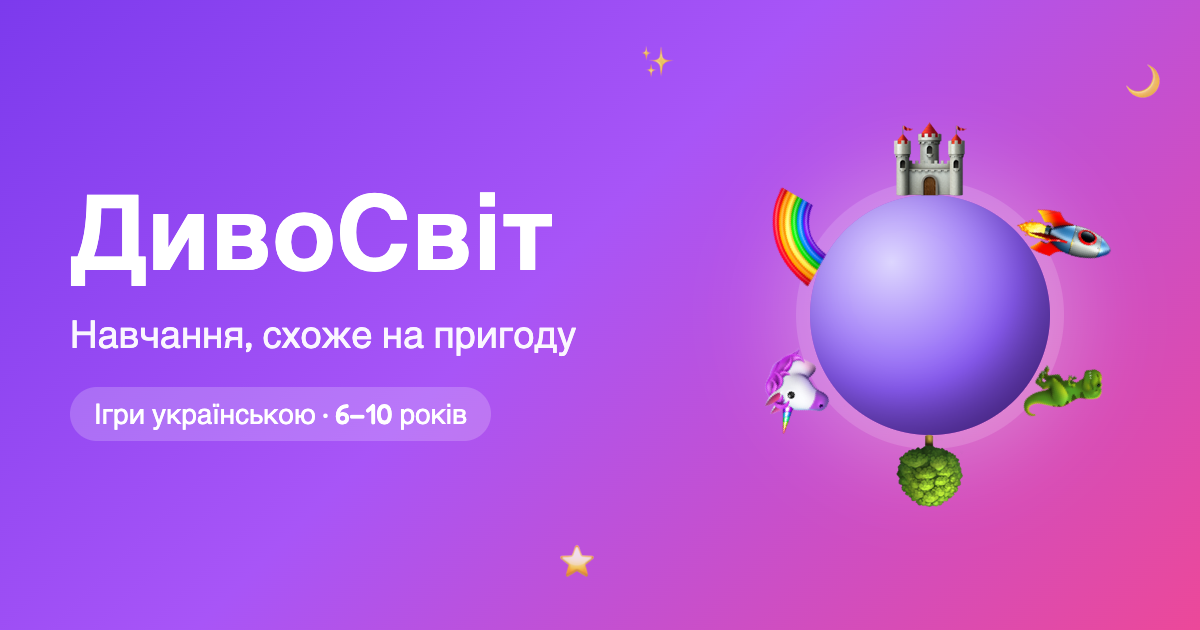
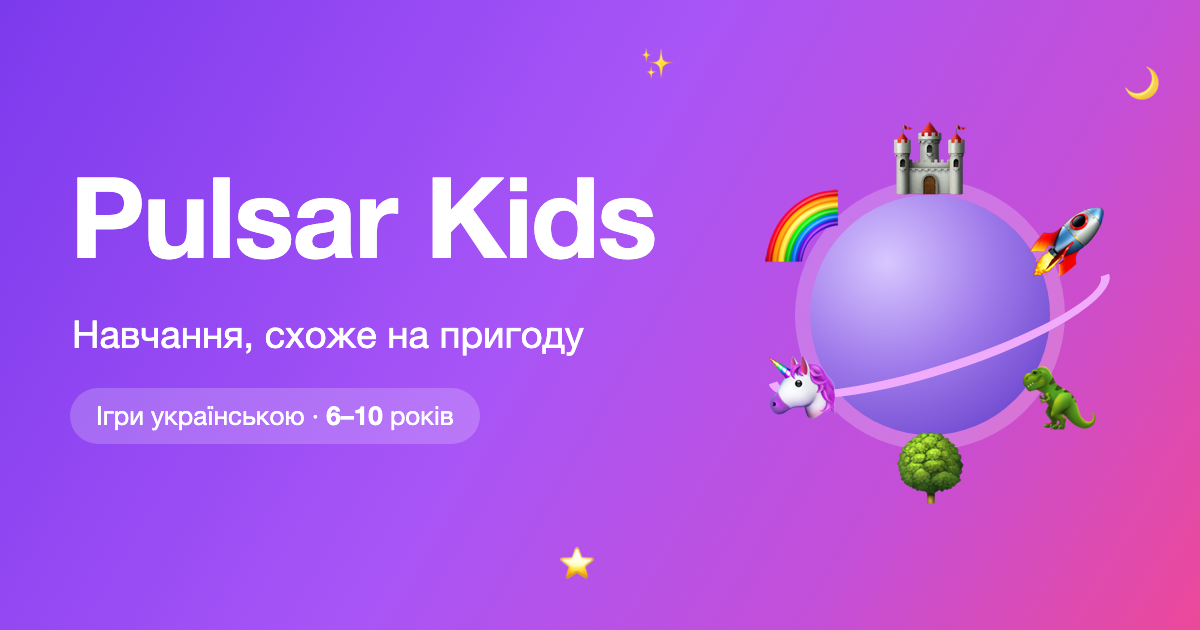
feat: rename to Pulsar Kids on pulsarkids.com; tap anything on the planet; sound switches in the child drawer

diff --git a/landing.html b/landing.html
@@ -3,12 +3,12 @@
   <head>
     <meta charset="UTF-8" />
     <meta name="viewport" content="width=device-width, initial-scale=1.0, viewport-fit=cover" />
-    <title>ДивоСвіт — навчальні ігри для дітей 6–10 років українською</title>
+    <title>Pulsar Kids — навчальні ігри для дітей 6–10 років українською</title>
     <meta
       name="description"
-      content="ДивоСвіт — ігрова платформа, де діти 6–10 років вчать математику, географію, історію та екологію українською. Без реклами, сліз і таймерів: помилка — це підказка, а час за екраном контролюють батьки."
+      content="Pulsar Kids — ігрова платформа, де діти 6–10 років вчать математику, географію, історію та екологію українською. Без реклами, сліз і таймерів: помилка — це підказка, а час за екраном контролюють батьки."
     />
-    <meta name="keywords" content="навчальні ігри для дітей, ігри українською, математика для дітей, прапори світу, дроби, розвивальні ігри, екранний час, ДивоСвіт, WonderKids" />
+    <meta name="keywords" content="навчальні ігри для дітей, ігри українською, математика для дітей, прапори світу, дроби, розвивальні ігри, екранний час, Pulsar Kids, Пульсар Кідс, pulsarkids" />
     <meta name="robots" content="index, follow, max-image-preview:large" />
     <meta name="theme-color" content="#7c3aed" />
     <link rel="canonical" href="__SITE_URL__/" />
@@ -19,10 +19,10 @@
     <link rel="manifest" href="/site.webmanifest" />
 
     <meta property="og:type" content="website" />
-    <meta property="og:site_name" content="ДивоСвіт" />
+    <meta property="og:site_name" content="Pulsar Kids" />
     <meta property="og:locale" content="uk_UA" />
     <meta property="og:url" content="__SITE_URL__/" />
-    <meta property="og:title" content="ДивоСвіт — навчання, схоже на пригоду" />
+    <meta property="og:title" content="Pulsar Kids — навчання, схоже на пригоду" />
     <meta
       property="og:description"
       content="Математика, мова, англійська, логіка, географія, астрономія, історія й природа у 42 іграх українською. Дитина грає і будує власну планету, а батьки керують часом за екраном."
@@ -30,9 +30,9 @@
     <meta property="og:image" content="__SITE_URL__/og-image.png" />
     <meta property="og:image:width" content="1200" />
     <meta property="og:image:height" content="630" />
-    <meta property="og:image:alt" content="ДивоСвіт — навчальні ігри для дітей" />
+    <meta property="og:image:alt" content="Pulsar Kids — навчальні ігри для дітей" />
     <meta name="twitter:card" content="summary_large_image" />
-    <meta name="twitter:title" content="ДивоСвіт — навчання, схоже на пригоду" />
+    <meta name="twitter:title" content="Pulsar Kids — навчання, схоже на пригоду" />
     <meta
       name="twitter:description"
       content="42 навчальні гри українською для дітей 6–10 років. Без реклами, сліз і таймерів."
@@ -54,15 +54,15 @@
             "@type": "WebSite",
             "@id": "__SITE_URL__/#website",
             "url": "__SITE_URL__/",
-            "name": "ДивоСвіт",
-            "alternateName": "WonderKids",
+            "name": "Pulsar Kids",
+            "alternateName": ["Пульсар Кідс", "PulsarKids"],
             "inLanguage": "uk",
             "description": "Навчальні ігри для дітей 6–10 років українською: математика, мова, англійська, логіка, географія, астрономія, історія, природа, екологія, творчість."
           },
           {
             "@type": "WebApplication",
             "@id": "__SITE_URL__/#app",
-            "name": "ДивоСвіт",
+            "name": "Pulsar Kids",
             "url": "__PLAY_URL__/",
             "applicationCategory": "EducationalApplication",
             "operatingSystem": "Web",
@@ -79,7 +79,7 @@
             "mainEntity": [
               {
                 "@type": "Question",
-                "name": "Для якого віку ДивоСвіт?",
+                "name": "Для якого віку Pulsar Kids?",
                 "acceptedAnswer": { "@type": "Answer", "text": "Ігри розраховані на дітей 6–10 років. Кожна гра позначена зірочками складності: одна — 6–7 років, дві — 7–8 років, три — 9–10 років." }
               },
               {
@@ -484,8 +484,8 @@
   <body>
     <header>
       <div class="wrap bar">
-        <a class="logo" href="/" aria-label="ДивоСвіт — на головну">
-          <span class="emoji" aria-hidden="true">🪐</span> ДивоСвіт
+        <a class="logo" href="/" aria-label="Pulsar Kids — на головну">
+          <span class="emoji" aria-hidden="true">🪐</span> Pulsar Kids
         </a>
         <nav aria-label="Розділи сторінки">
           <a href="#about">Для чого</a>
@@ -505,7 +505,7 @@
           <span class="eyebrow">Навчальні ігри українською · 6–10 років</span>
           <h1>Навчання, схоже на <span>пригоду</span></h1>
           <p class="lead">
-            ДивоСвіт — це ігрова панель, де дитина вчить математику, географію, історію та екологію, граючи.
+            Pulsar Kids — це ігрова панель, де дитина вчить математику, географію, історію та екологію, граючи.
             Без реклами, без програшів і без таймерів, що лякають. А батьки спокійно керують часом за екраном.
           </p>
           <div class="cta">
@@ -532,7 +532,7 @@
 
       <section id="about">
         <div class="wrap">
-          <h2>Для чого ДивоСвіт</h2>
+          <h2>Для чого Pulsar Kids</h2>
           <p class="sub">
             Наша мета — щоб дитина хотіла вчитися сама. Більшість навчальних застосунків карають за помилку: забирають
             «життя», вмикають таймер, показують червоний хрестик. Від цього дитина боїться помилятися й кидає гру. Ми
@@ -784,7 +784,7 @@
         <div class="wrap">
           <h2>Часті питання</h2>
           <details>
-            <summary>Для якого віку ДивоСвіт?</summary>
+            <summary>Для якого віку Pulsar Kids?</summary>
             <p>
               Ігри розраховані на дітей 6–10 років. Кожна гра позначена зірочками складності: одна — 6–7 років, дві — 7–8
               років, три — 9–10 років.
@@ -836,7 +836,7 @@
 
     <footer>
       <div class="wrap">
-        <p>© <span id="year">2026</span> ДивоСвіт (WonderKids). Навчання, схоже на пригоду.</p>
+        <p>© <span id="year">2026</span> Pulsar Kids. Навчання, схоже на пригоду.</p>
         <p>
           <a data-portal="play" href="__PLAY_URL__/">Гра</a>·<a data-portal="parents" href="__PARENTS_URL__/">Кабінет батьків</a>
         </p>

diff --git a/src/components/world/PlanetView.tsx b/src/components/world/PlanetView.tsx
@@ -23,8 +23,8 @@ const MAX_PITCH = 70 * RAD;
 const ZOOM_MIN = 0.7;
 /** Far enough in for the smallest decoration to be looked at closely. */
 const ZOOM_MAX = 4;
-/** A message with nothing to press fades out by itself after this long. */
-const NOTICE_MS = 5000;
+/** A message with nothing to press fades out by itself after this long — long enough to be read out. */
+const NOTICE_MS = 9000;
 
 interface PlanetViewProps {
   world: World;
@@ -35,9 +35,10 @@ interface PlanetViewProps {
 /**
  * The planet the child builds: a globe that turns under the finger in every
  * direction and zooms under two, with buildings, decorations and residents
- * spread evenly over its surface. Things are built from the list below the
- * planet, never on it: choosing one turns the planet to its place and brings
- * up a bar at the bottom of the screen with the button to build or sell it.
+ * spread evenly over its surface. Tapping a thing — on the planet or in the
+ * list below it, built or not — turns the planet to its place, reads out what
+ * it is and what it costs, and brings up a bar at the bottom of the screen
+ * with the button to build or sell it when that is possible.
  * Tapping a planet of the system shows that planet — a closed one under a
  * lock — and what it asks for. ⛶ opens the whole solar system.
  */
@@ -120,7 +121,7 @@ export function PlanetView({ world, onPlanet }: PlanetViewProps) {
     const port = state.item.id === SPACEPORT_ID ? ' Космопорт відкриває шлях до наступної планети.' : '';
     if (state.status === 'owned') return `${name}. Уже стоїть на твоїй планеті.${port}`;
     if (state.status === 'locked') return `${name}. Це головна мрія! Спершу збудуй усі інші будівлі та космопорт.`;
-    if (state.status === 'saving') return `${name}. Коштує ${cost}. Збери ще ${state.missing} — і можна будувати.`;
+    if (state.status === 'saving') return `${name}. Коштує ${cost}. У тебе є ${balance}. Збери ще ${state.missing} — і можна будувати.`;
     return `${name}. Коштує ${cost}. Можна будувати!${port}`;
   };
 
@@ -230,7 +231,7 @@ export function PlanetView({ world, onPlanet }: PlanetViewProps) {
     ? 'Ця планета ще закрита.'
     : suggestion
       ? `Уже можна збудувати: ${suggestion.item.name}!`
-      : 'Обери у списку внизу, що хочеш збудувати.';
+      : 'Торкнися будь-чого на планеті або у списку внизу.';
 
   return (
     <section className={styles.card}>
@@ -326,13 +327,7 @@ export function PlanetView({ world, onPlanet }: PlanetViewProps) {
               justBuilt={justBuilt}
               onTap={(state) => {
                 if (wasDrag()) return;
-                // Only what stands can be chosen here; the rest is built from the list.
-                if (state.status === 'owned') {
-                  select(state);
-                  return;
-                }
-                play('tap');
-                announce(world.open ? `${state.item.name}. Ще не збудовано. Обери у списку внизу.` : `${state.item.name}. Ця планета ще закрита.`);
+                select(state);
               }}
             />
           </>
@@ -484,7 +479,7 @@ export function PlanetView({ world, onPlanet }: PlanetViewProps) {
                 {selected.status === 'locked' && 'Це головна мрія! Спершу збудуй усі інші будівлі та космопорт.'}
                 {selected.status === 'saving' && (
                   <>
-                    Ще {selected.missing} {theme.artifact.emoji} — і можна будувати
+                    Коштує {selected.item.cost} {theme.artifact.emoji} · є {balance} · збери ще {selected.missing} {theme.artifact.emoji}
                   </>
                 )}
                 {selected.status === 'affordable' && (

diff --git a/src/components/hub/ChildDrawer.tsx b/src/components/hub/ChildDrawer.tsx
@@ -6,6 +6,8 @@ import { useGameStore } from '@/core/child/store/useGameStore';
 import { useActiveTheme } from '@/core/theme/useActiveTheme';
 import { useSound } from '@/core/audio/useSound';
 import { useVoiceSpeak } from '@/core/audio/useSpeech';
+import { speechEngine } from '@/core/audio/SpeechEngine';
+import { Chip } from '@/components/ui/Chip';
 import { counted } from '@/core/lang/uk';
 import { ProgressBar } from '@/components/ui/ProgressBar';
 import { ThemeGrid } from '@/components/settings/ThemeGrid';
@@ -25,7 +27,8 @@ interface ChildDrawerProps {
  * from the child's name (the artifact purse opens «Мій світ», where artifacts
  * are spent). Shows, top to bottom: the themed
  * artifact (name + count), the family goals (how much more to collect), and the
- * world (theme) switcher. The treasure collection and dream build live as their
+ * world (theme) switcher, and two sound switches (mute everything; hide the
+ * tap-to-hear speaker icons). The treasure collection and dream build live as their
  * own badges in the header. No parent link — the parent portal is its own domain.
  */
 export function ChildDrawer({ open, onClose }: ChildDrawerProps) {
@@ -38,6 +41,17 @@ export function ChildDrawer({ open, onClose }: ChildDrawerProps) {
   const { play } = useSound();
   const announce = useVoiceSpeak('selections');
   const logout = useAuthStore((s) => s.logout);
+  const soundOn = useGameStore((s) => s.settings.soundOn);
+  const voiceOn = useGameStore((s) => s.settings.voiceOn);
+  const ttsButtons = useGameStore((s) => s.settings.ttsButtons);
+  const updateSettings = useGameStore((s) => s.updateSettings);
+
+  // "Mute everything" is both master switches at once: effects and the voice.
+  const muted = !soundOn && !voiceOn;
+  const toggleMute = () => {
+    if (!muted) speechEngine.cancel();
+    updateSettings({ soundOn: muted, voiceOn: muted });
+  };
 
   const switchPlayer = () => {
     play('tap');
@@ -149,6 +163,22 @@ export function ChildDrawer({ open, onClose }: ChildDrawerProps) {
 
             <h3 className={styles.sectionTitle}>🎨 Тема</h3>
             <ThemeGrid />
+
+            <h3 className={styles.sectionTitle}>🔈 Звук</h3>
+            <div className={styles.sound}>
+              <Chip
+                icon={muted ? '🔇' : '🔊'}
+                label={muted ? 'Звук вимкнено' : 'Вимкнути весь звук'}
+                active={muted}
+                onClick={toggleMute}
+              />
+              <Chip
+                icon={ttsButtons ? '🔈' : '📖'}
+                label={ttsButtons ? 'Сховати значки озвучення' : 'Значки озвучення сховано'}
+                active={!ttsButtons}
+                onClick={() => updateSettings({ ttsButtons: !ttsButtons })}
+              />
+            </div>
 
             <div className={styles.actions}>
               <Button block icon="🔄" variant="ghost" onClick={switchPlayer}>

diff --git a/index.html b/index.html
@@ -8,18 +8,18 @@
       content="width=device-width, initial-scale=1.0, maximum-scale=1.0, user-scalable=no, viewport-fit=cover"
     />
     <meta name="theme-color" content="#7c3aed" />
-    <title>ДивоСвіт — навчальні ігри для дітей</title>
+    <title>Pulsar Kids — навчальні ігри для дітей</title>
     <meta
       name="description"
-      content="ДивоСвіт — навчальні ігри українською для дітей 6–10 років: математика, географія, історія, екологія. Без реклами, сліз і таймерів."
+      content="Pulsar Kids — навчальні ігри українською для дітей 6–10 років: математика, географія, історія, екологія. Без реклами, сліз і таймерів."
     />
     <!-- App pages are personal: out of search by default. The public login
          pages switch this to "index" themselves (see usePageMeta). -->
     <meta name="robots" content="noindex, nofollow" />
     <meta property="og:type" content="website" />
-    <meta property="og:site_name" content="ДивоСвіт" />
+    <meta property="og:site_name" content="Pulsar Kids" />
     <meta property="og:locale" content="uk_UA" />
-    <meta property="og:title" content="ДивоСвіт — навчання, схоже на пригоду" />
+    <meta property="og:title" content="Pulsar Kids — навчання, схоже на пригоду" />
     <meta
       property="og:description"
       content="Математика, географія, історія та екологія у 23 іграх українською. Дитина грає і будує власну планету, а батьки керують часом за екраном."
@@ -31,7 +31,7 @@
     <meta name="mobile-web-app-capable" content="yes" />
     <meta name="apple-mobile-web-app-capable" content="yes" />
     <meta name="apple-mobile-web-app-status-bar-style" content="black-translucent" />
-    <meta name="apple-mobile-web-app-title" content="ДивоСвіт" />
+    <meta name="apple-mobile-web-app-title" content="Pulsar Kids" />
     <link rel="apple-touch-icon" href="/apple-touch-icon.png" />
     <style>
       /* Shown until the app boots: the same little solar system the app uses
@@ -103,7 +103,7 @@
         <i><b class="sun"></b><b class="o1"></b><b class="o2"></b></i>
       </div>
     </div>
-    <noscript>Щоб грати в ДивоСвіт, увімкніть JavaScript у браузері.</noscript>
+    <noscript>Щоб грати в Pulsar Kids, увімкніть JavaScript у браузері.</noscript>
     <script type="module" src="/src/main.tsx"></script>
   </body>
 </html>

diff --git a/src/pages/auth/LoginPage.tsx b/src/pages/auth/LoginPage.tsx
@@ -61,7 +61,7 @@ export function LoginPage() {
   usePageMeta({
     title: 'Кабінет батьків',
     description:
-      'Вхід до кабінету батьків ДивоСвіту: додавайте дітей, налаштовуйте ігровий час, сімейні цілі та стежте за успіхами.',
+      'Вхід до кабінету батьків Pulsar Kids: додавайте дітей, налаштовуйте ігровий час, сімейні цілі та стежте за успіхами.',
     index: true,
   });
   const token = useAuthStore((s) => s.token);
@@ -100,7 +100,7 @@ export function LoginPage() {
           ))}
         </div>
 
-        <h1 className={styles.title}>WonderKids</h1>
+        <h1 className={styles.title}>Pulsar Kids</h1>
         <p className={styles.sub}>Кабінет батьків</p>
 
         {auth0Enabled ? (
@@ -113,7 +113,7 @@ export function LoginPage() {
 
         <p className={styles.hint}>
           {auth0Enabled
-            ? 'Уже користувалися ДивоСвітом? Увійдіть із тією самою поштою — діти й прогрес на місці.'
+            ? 'Уже користувалися Pulsar Kids? Увійдіть із тією самою поштою — діти й прогрес на місці.'
             : 'Пароль не потрібен — поки що вхід лише за поштою.'}
           {getPortal() === 'dev' && (
             <>

diff --git a/src/pages/auth/ChildLoginPage.tsx b/src/pages/auth/ChildLoginPage.tsx
@@ -24,7 +24,7 @@ export function ChildLoginPage() {
   usePageMeta({
     title: 'Вхід для дітей',
     description:
-      'Вхід у ДивоСвіт для дітей: введи свій нік і PIN, який дали батьки, — і вирушай у пригоду з математикою, географією та історією.',
+      'Вхід у Pulsar Kids для дітей: введи свій нік і PIN, який дали батьки, — і вирушай у пригоду з математикою, географією та історією.',
     index: true,
   });
   const navigate = useNavigate();
@@ -87,7 +87,7 @@ export function ChildLoginPage() {
           <span className={styles.logoIcon}>🦖</span>
         </div>
 
-        <h1 className={styles.title}>WonderKids</h1>
+        <h1 className={styles.title}>Pulsar Kids</h1>
         <p className={styles.sub}>Привіт! Введи свій нік і PIN</p>
 
         <form className={styles.form} onSubmit={submit}>

diff --git a/src/core/app/portal.ts b/src/core/app/portal.ts
@@ -3,11 +3,11 @@
  * site, the parent portal and the child portal stay apart (Tech Spec v2.1 §2 —
  * Domain Isolation):
  *
- *   wonderkids.app           → 'site'    the public landing page (served as
+ *   pulsarkids.com           → 'site'    the public landing page (served as
  *                                        static landing.html); any app path
  *                                        opened here is sent to its subdomain
- *   parents.wonderkids.app   → 'parent'  only the parent portal (+ admin)
- *   play.wonderkids.app      → 'kid'     only the child portal
+ *   parents.pulsarkids.com   → 'parent'  only the parent portal (+ admin)
+ *   play.pulsarkids.com      → 'kid'     only the child portal
  *   localhost / LAN / *.vercel.app → 'dev'  everything, for development
  *
  * The same bundle behaves correctly on each host.

diff --git a/src/components/world/Globe.tsx b/src/components/world/Globe.tsx
@@ -36,8 +36,8 @@ interface GlobeProps {
 /**
  * A planet as a globe: the real planet (`PlanetArt`) turned by `yaw`, with
  * everything built on it standing at its own place. What is on the far side is
- * not drawn; what is not built yet is a dim outline — never a button to build
- * (building is done from the list below the planet).
+ * not drawn; what is not built yet is a dim outline. Everything can be tapped
+ * (`onTap`) — the planet view then tells what it is and offers to build it.
  */
 export function Globe({ planetId, cx, cy, radius, yaw, pitch, items, residents, level, locked, detail = true, selectedId, justBuilt, onTap }: GlobeProps) {
   /** Things on the far side are hidden; near the edge they shrink away. */

diff --git a/seo-plugin.ts b/seo-plugin.ts
@@ -11,7 +11,7 @@ import type { Plugin } from 'vite';
  * The address comes from VITE_SITE_URL (the ROOT domain, no trailing slash).
  */
 export function seo(): Plugin {
-  const site = (process.env.VITE_SITE_URL ?? 'https://wonderkids.yluch.app').replace(/\/$/, '');
+  const site = (process.env.VITE_SITE_URL ?? 'https://pulsarkids.com').replace(/\/$/, '');
   const useSubdomains = process.env.VITE_USE_SUBDOMAINS !== 'false';
   const sub = (name: string) => (useSubdomains ? site.replace('://', `://${name}.`) : site);
 

diff --git a/src/core/game/kernel/types.ts b/src/core/game/kernel/types.ts
@@ -3,7 +3,7 @@ import type { Theme } from '@/core/theme/theme.types';
 import { Mechanics } from './mechanics';
 
 /**
- * Core kernel contracts for the WonderKids micro-kernel plugin architecture.
+ * Core kernel contracts for the Pulsar Kids micro-kernel plugin architecture.
  *
  * The PRD specifies an imperative `LearningModule` contract with
  * `renderGameView(container: HTMLElement, ...)`. In a React codebase we adapt

diff --git a/src/core/app/seo/usePageMeta.ts b/src/core/app/seo/usePageMeta.ts
@@ -1,9 +1,9 @@
 import { useEffect } from 'react';
 
-const SITE_NAME = 'ДивоСвіт';
+const SITE_NAME = 'Pulsar Kids';
 
 interface PageMeta {
-  /** Page name; the site name is appended ("Вхід для дітей — ДивоСвіт"). */
+  /** Page name; the site name is appended ("Вхід для дітей — Pulsar Kids"). */
   title: string;
   description?: string;
   /**

diff --git a/src/styles/global.css b/src/styles/global.css
@@ -1,5 +1,5 @@
 /* ============================================================
-   WonderKids / ДивоСвіт — global design system
+   Pulsar Kids — global design system
    Mobile-first, large touch targets (min 56px), rounded & soft.
    Theme palette comes from CSS variables set by ThemeProvider.
    ============================================================ */
